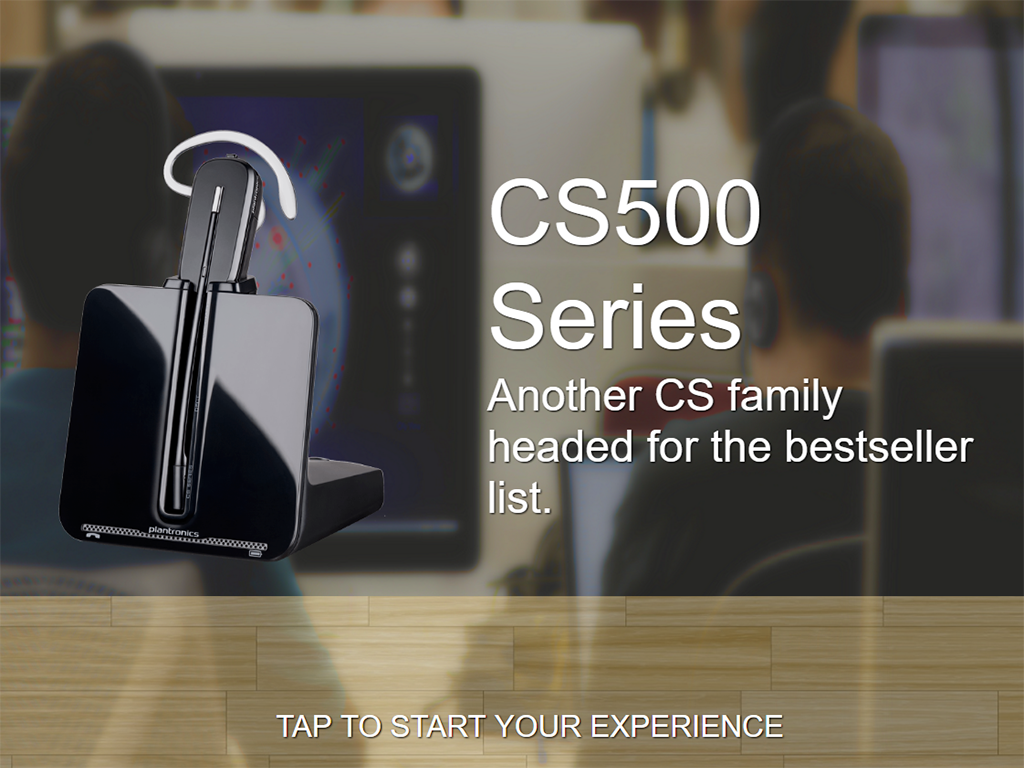
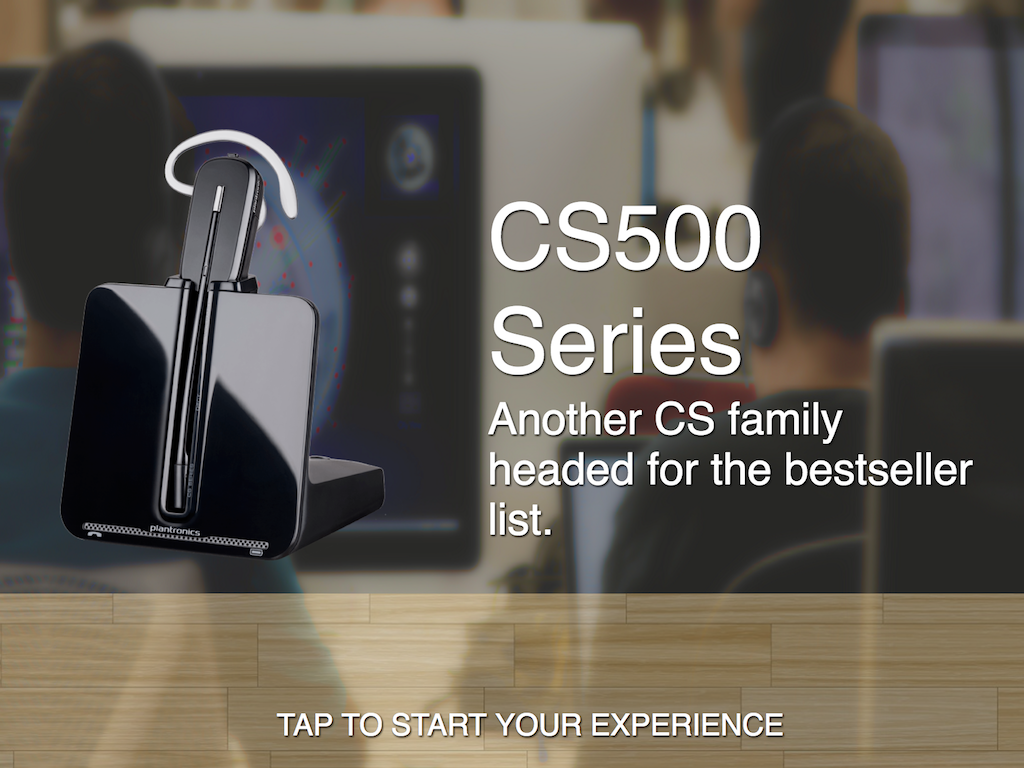
Screensaver UI Fix

diff --git a/EBC App/www/screensavers/CALISTO620-screensaver.html b/EBC App/www/screensavers/CALISTO620-screensaver.html
@@ -14,7 +14,7 @@
         }
         #footer3{
             opacity: 0.5;
-            bottom: -594px;
+            bottom: -125px;
             height: 175px;
         }
         .prodImg{
@@ -33,7 +33,7 @@
             max-width: 500px;
         }
         .text-screensaver{
-            margin-top: 186px;
+            margin-top: 135px;
             margin-left: -105px;
             position: absolute;
         }

diff --git a/EBC App/www/screensavers/BBFIT-screensaver.html b/EBC App/www/screensavers/BBFIT-screensaver.html
@@ -15,8 +15,7 @@
         #footer2{
             opacity: 0.5;
             bottom: -99px;
-            height: 175px;
-            left: 1px;
+            height: 175px;;
         }
         .prodImg{
             height: 625px;

diff --git a/EBC App/www/screensavers/ENCOREPRO720-screensaver.html b/EBC App/www/screensavers/ENCOREPRO720-screensaver.html
@@ -14,7 +14,7 @@
         }
         #footer2{
             opacity: 0.5;
-            bottom: -594px;
+            bottom: -125px;
             height: 175px;
         }
         .prodImg{

diff --git a/EBC App/www/screensavers/SAVI700-screensaver.html b/EBC App/www/screensavers/SAVI700-screensaver.html
@@ -14,7 +14,7 @@
         }
         #footer4{
             opacity: 0.5;
-            bottom: -594px;
+            bottom: -125px;
             height: 175px;
         }
         .prodImg{

diff --git a/EBC App/www/screensavers/VOYAGER5200-screensaver.html b/EBC App/www/screensavers/VOYAGER5200-screensaver.html
@@ -14,7 +14,7 @@
         }
         #footer2{
             opacity: 0.5;
-            bottom: -594px;
+            bottom: -125px;
             height: 175px;
         }
         .prodImg{

diff --git a/EBC App/www/screensavers/VOYAGEREDGE-screensaver.html b/EBC App/www/screensavers/VOYAGEREDGE-screensaver.html
@@ -14,7 +14,7 @@
         }
         #footer4{
             opacity: 0.5;
-            bottom: -594px;
+            bottom: -125px;
             height: 175px;
         }
         .prodImg{

diff --git a/EBC App/www/screensavers/VOYAGERLEGEND-screensaver.html b/EBC App/www/screensavers/VOYAGERLEGEND-screensaver.html
@@ -14,7 +14,7 @@
         }
         #footer3{
             opacity: 0.5;
-            bottom: -594px;
+            bottom: -125px;
             height: 175px;
         }
         .prodImg{

diff --git a/EBC App/www/screensavers/CS500-screensaver.html b/EBC App/www/screensavers/CS500-screensaver.html
@@ -14,7 +14,7 @@
         }
         #footer{
             opacity: 0.5;
-            bottom: -594px;
+            bottom: -125px;
             height: 175px;
         }
         .prodImg{

diff --git a/EBC App/www/screensavers/VOYAGERFOCUS-screensaver.html b/EBC App/www/screensavers/VOYAGERFOCUS-screensaver.html
@@ -14,7 +14,7 @@
         }
         #footer{
             opacity: 0.5;
-            bottom: -594px;
+            bottom: -125px;
             height: 175px;
         }
         .prodImg{
